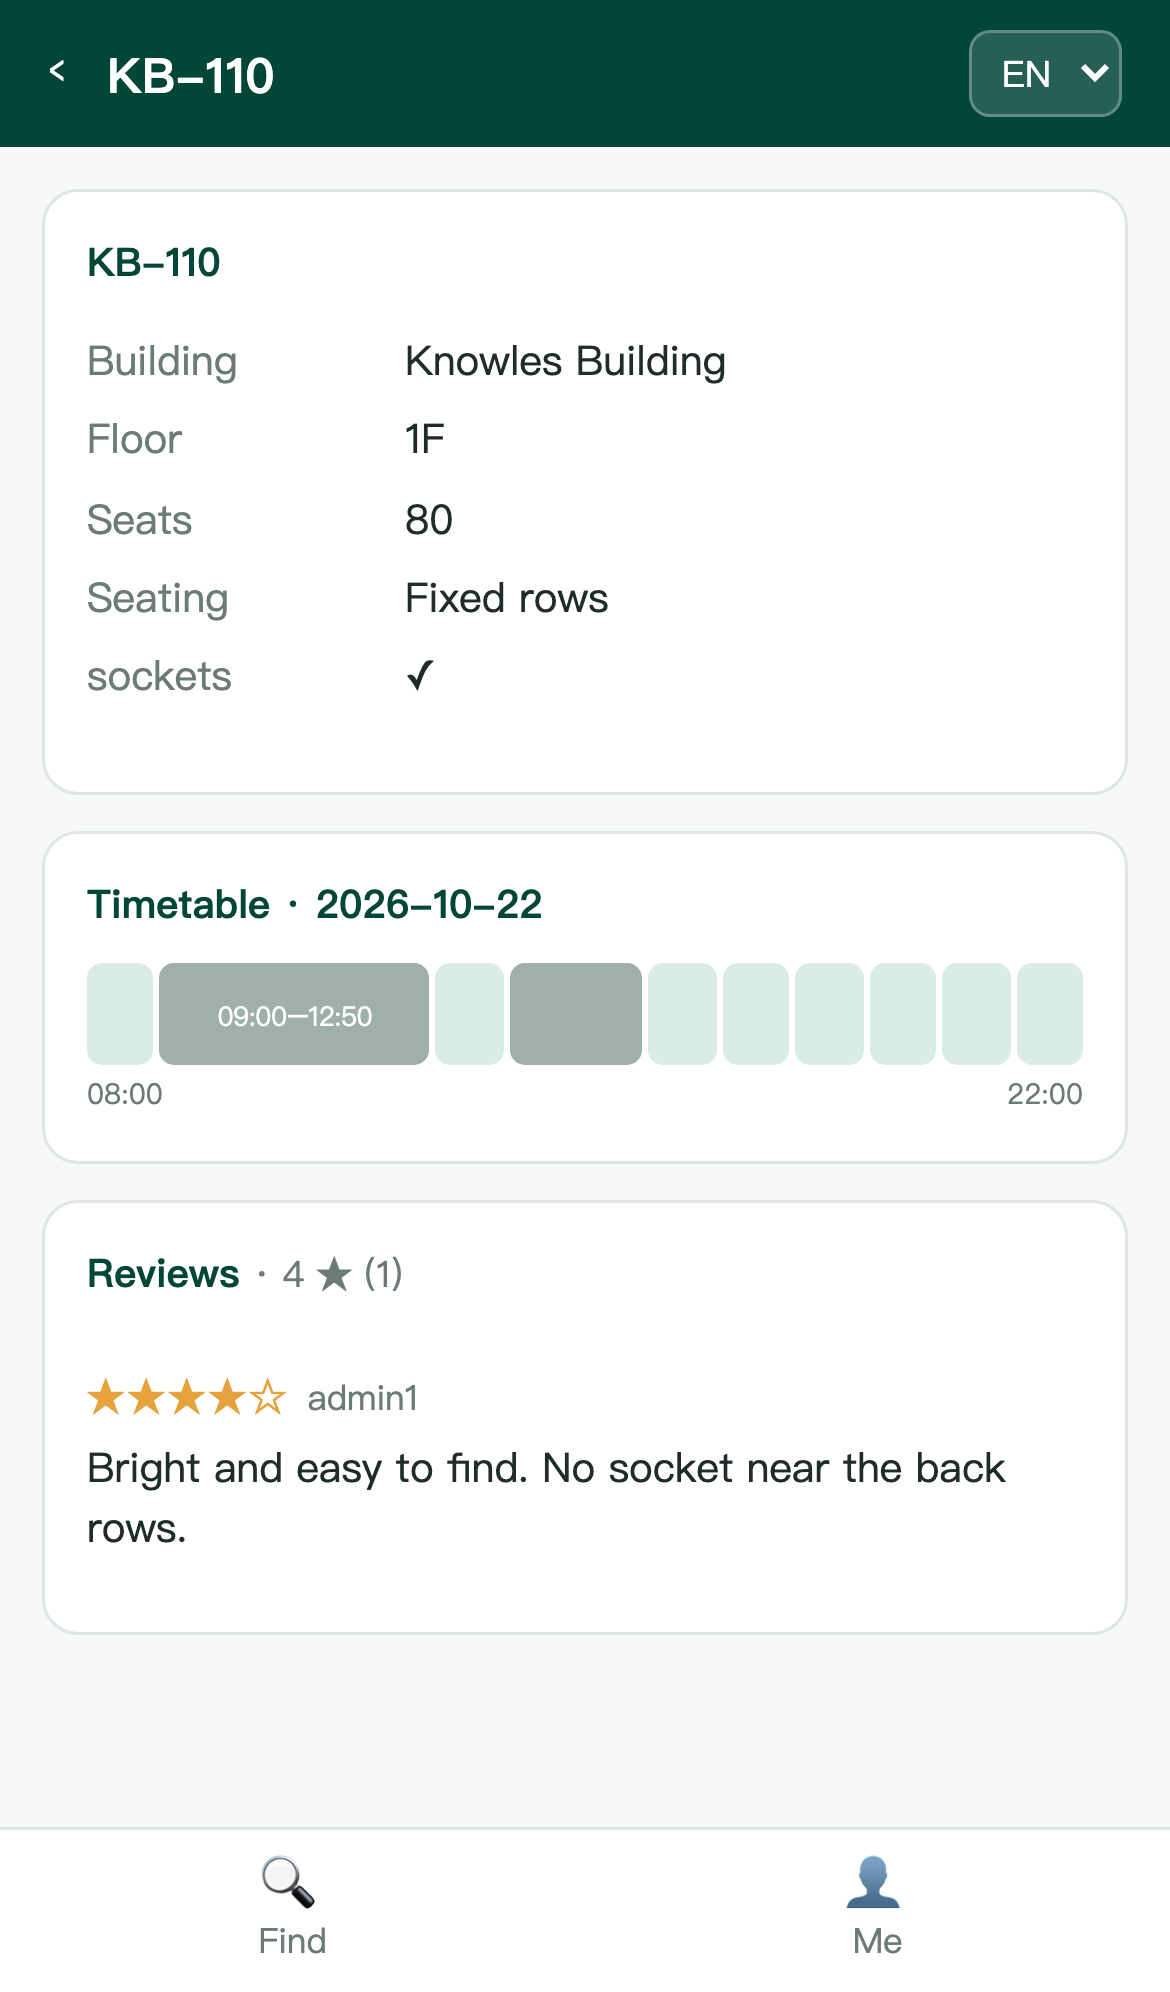
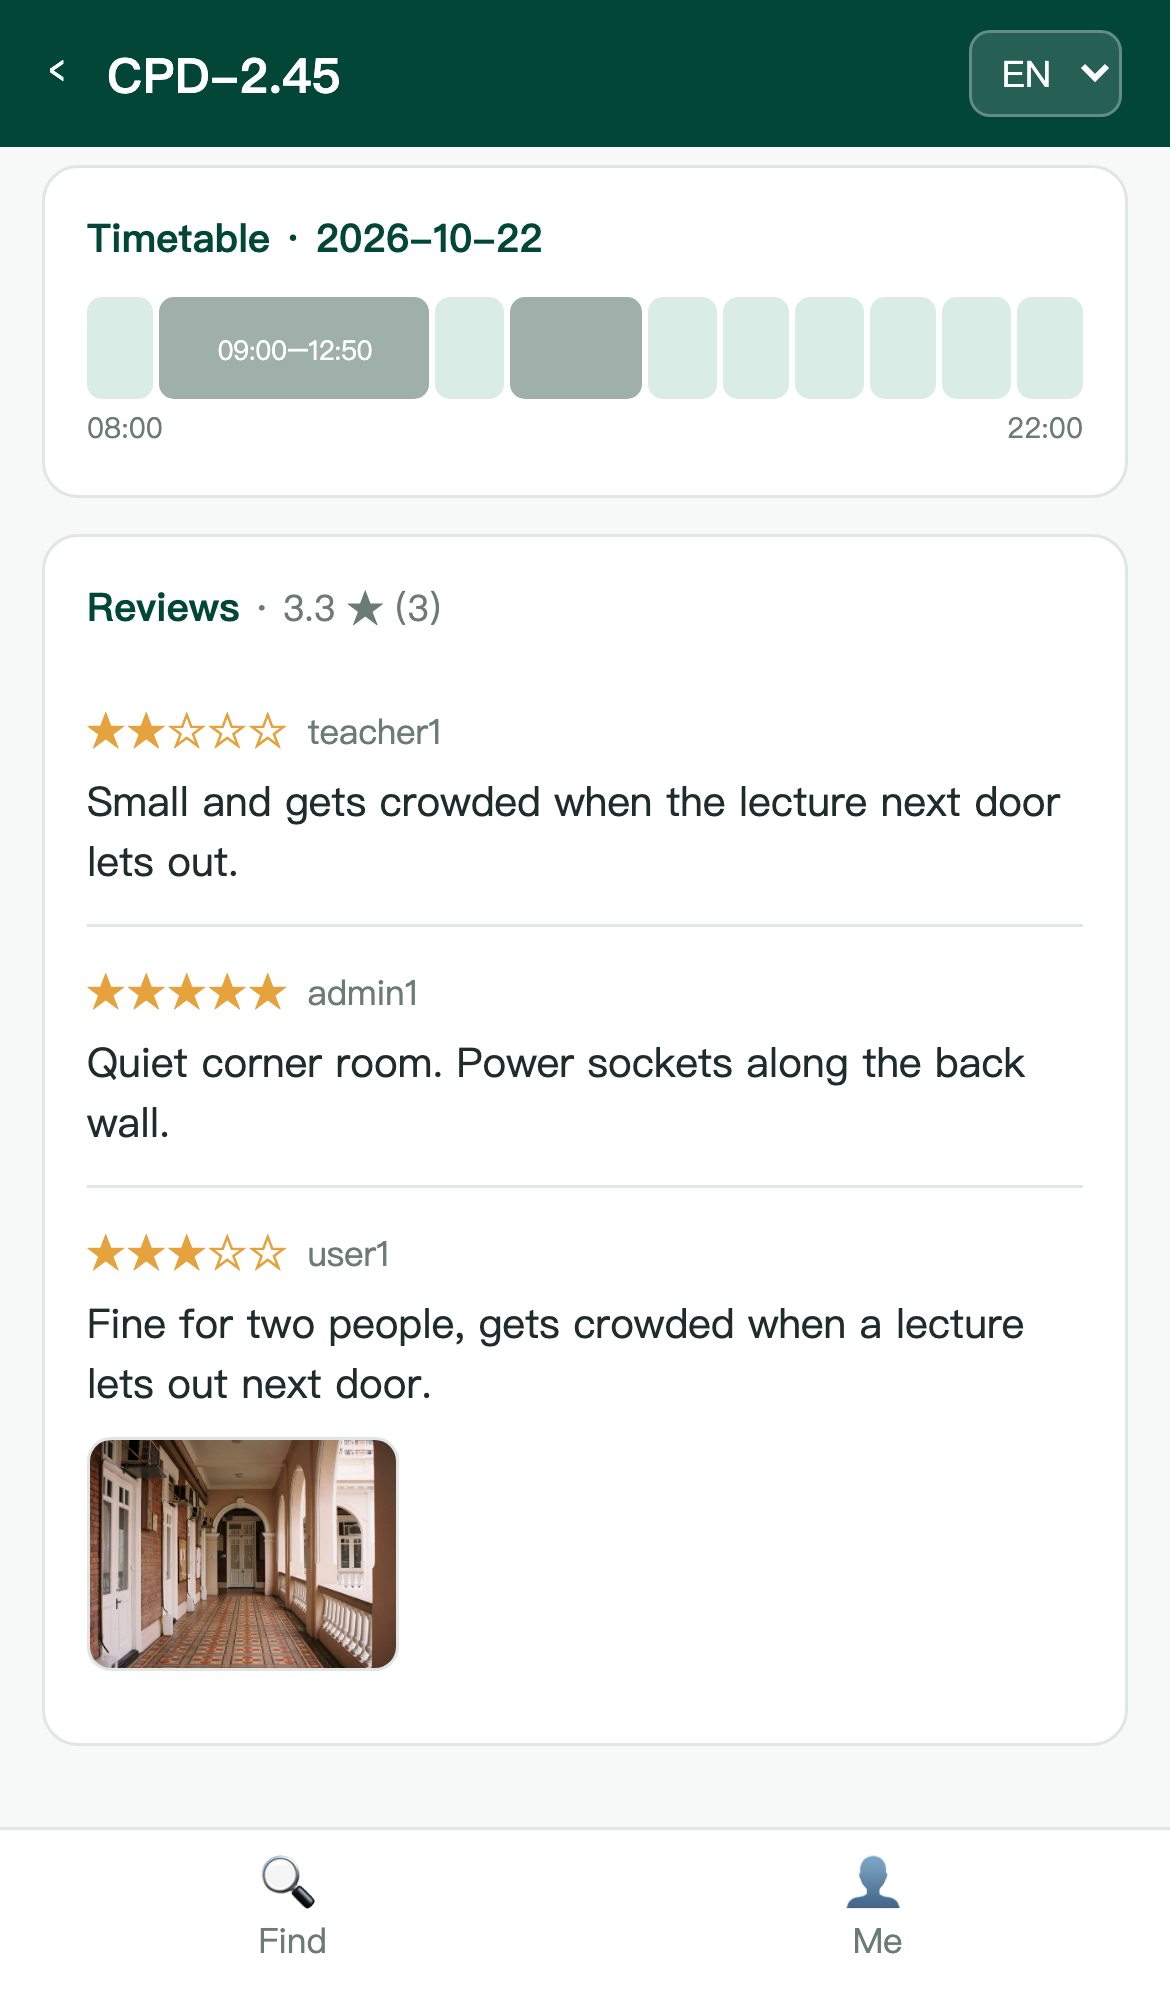
mobile: review photos, at a size you can actually see
The photo code was there from the first commit, but there was no photo in the database, so it
had never been exercised. Adding one showed two problems:

- the thumbnail was 64x48, too small on a 390pt screen to tell anything from
- there was no way to look closer

Now 104x78 thumbnails, tap opens a full-screen view on an opaque backdrop, tap again closes.
Verified in an iPhone 13 viewport: the image decodes at 1600x1081 with 0 failed requests, the
lightbox shows it contained at 366x247, and closing removes the overlay.

Also: room screenshot in mobile/docs now shows a review with a photo.

diff --git a/mobile/src/views/Room.vue b/mobile/src/views/Room.vue
@@ -54,10 +54,22 @@
         <span class="who">{{ rv.author }}</span>
         <div class="body">{{ rv.body }}</div>
         <div v-if="rv.photos && rv.photos.length" class="photos">
-          <img v-for="p in rv.photos" :key="p.id" :src="p.url" alt="" loading="lazy" />
+          <img
+            v-for="p in rv.photos"
+            :key="p.id"
+            :src="p.url"
+            alt=""
+            loading="lazy"
+            @click="zoom = p.url"
+          />
         </div>
       </div>
       <p v-if="reviews && !reviews.count" class="hint">{{ t('room.noReviews') }}</p>
+    </div>
+
+    <!-- 点开看大图：手机上 104px 的缩略图看不清字体/插座位置 -->
+    <div v-if="zoom" class="lightbox" @click="zoom = ''">
+      <img :src="zoom" alt="" />
     </div>
   </div>
 </template>
@@ -75,6 +87,7 @@ const date = route.query.date || new Date().toISOString().slice(0, 10)
 const room = ref(null)
 const segments = ref([])
 const reviews = ref(null)
+const zoom = ref('')
 
 onMounted(async () => {
   try {

diff --git a/mobile/src/style.css b/mobile/src/style.css
@@ -142,7 +142,19 @@ input, select {
 .review .who { font-size: 11.5px; color: var(--muted); margin-left: 6px; }
 .review .body { font-size: 13.5px; margin-top: 3px; }
 .review .photos { display: flex; gap: 6px; margin-top: 7px; }
-.review .photos img { width: 64px; height: 48px; object-fit: cover; border-radius: 7px; border: 1px solid var(--line); }
+.review .photos img {
+  width: 104px; height: 78px; object-fit: cover; border-radius: 8px;
+  border: 1px solid var(--line); background: #eef1f0;
+}
+
+/* 全屏看大图 */
+.lightbox {
+  position: fixed; inset: 0; z-index: 50;
+  background: #0b1210;
+  display: flex; align-items: center; justify-content: center;
+  padding: 12px;
+}
+.lightbox img { max-width: 100%; max-height: 100%; object-fit: contain; border-radius: 6px; }
 
 /* bottom nav */
 .tabbar {

diff --git a/mobile/README.md b/mobile/README.md
@@ -26,15 +26,15 @@ Demo account: `user1` / `user123`.
 |---|---|
 | Sign in | HKU email or username + password, same `/auth/login` as the desktop app |
 | Find | building + date + a window (`from` on the hour, `to` on `:50`), then cards for the rooms free for the whole window |
-| Room | details, a one-day timetable strip (grey = in use, pale green = free), reviews with photos |
+| Room | details, a one-day timetable strip (grey = in use, pale green = free), reviews with photos — tap a photo to open it full screen |
 | Me | account, role, language, sign out |
 
 Administrator work (locking rooms, editing facilities, managing accounts) stays on the desktop
 client: it is not a one-thumb task, and hiding it here keeps the mobile app a student view.
 
-| Find | Room |
-|---|---|
-| ![Find](docs/screen-find.png) | ![Room](docs/screen-room.png) |
+| Find | Room | Photo, tapped |
+|---|---|---|
+| ![Find](docs/screen-find.png) | ![Room](docs/screen-room.png) | ![Photo](docs/screen-photo.jpg) |
 
 ## Verified
 
@@ -42,5 +42,7 @@ Driven with Playwright in an iPhone 13 viewport (`390 × 844`, DPR 3):
 
 - sign in as `user1`, then the search returns 3 rooms free for 15:00–16:50 on 2026-10-22
 - `KB-110`: 10 timetable cells, 2 blocked (09:00–12:50 and 14:00–15:50), 1 review
+- `CPD-2.45`: review photo renders at 104 × 78, decoded 1600 × 1081, 0 failed requests;
+  tapping it opens a full-screen view (366 × 247 contained) and tapping again closes it
 - language switch to 简体 changes the UI (`空闲教室`), 0 JavaScript errors
 - `npm run build` clean: 161 KB JS (61 KB gzip) + 4 KB CSS
